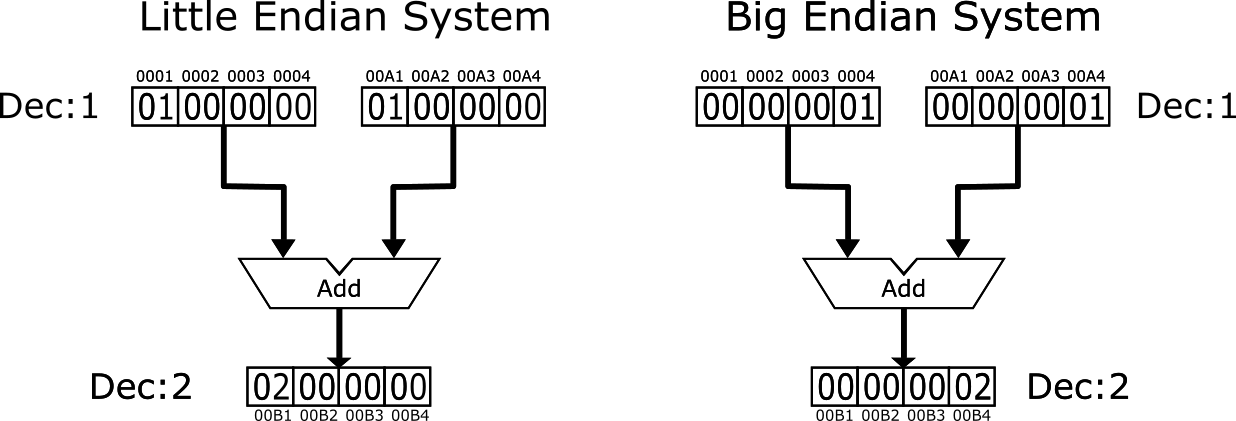
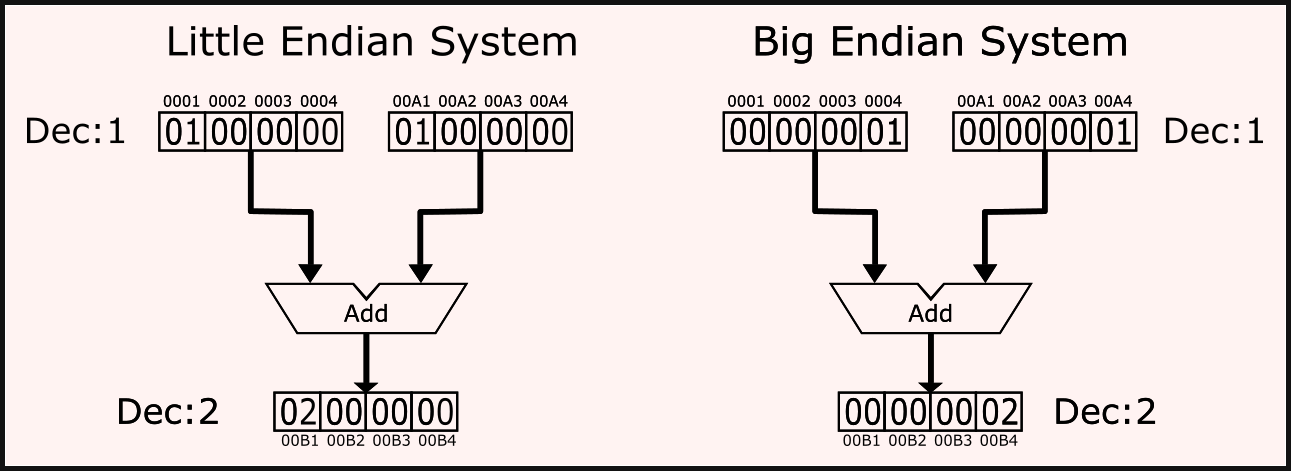
migrate content

Changed region(s): [[0.0, 0.0, 1.0, 1.0]]

diff --git a/content/blog/openmp.md b/content/blog/openmp.md
@@ -1,0 +1,254 @@
+---
+title: "Playing around with OpenMP and C++ - Parallelizing for-loops"
+date: 2019-04-19
+summary: "Optimizing a toy C++ library using OpenMP."
+path: /openmp-parallel-for-cpp/
+---
+
+Yesterday, I came across [an interesting repository](https://github.com/georgeshanti/cpp-transformations) on my GitHub feed. It is a simple and functional header-only C++ library that lets you apply transformations like map, reduce and filter to standard C++ containers.
+
+
+Well, yes I'm aware of the fact that it is possible to perform all three transformations using just STL.
+
+* Map - [`std::transform`](http://www.cplusplus.com/reference/algorithm/transform/)
+* Filter - [`std::copy_if`](http://www.cplusplus.com/reference/algorithm/copy_if/)
+* Reduce - [`std::accumulate`](http://www.cplusplus.com/reference/numeric/accumulate/)
+
+This [stackoverflow answer](https://stackoverflow.com/questions/40901615/how-to-replicate-map-filter-and-reduce-behaviors-in-c-using-stl) explains them in detail.
+
+But that is not why I was interested. Before getting in to that let's take a brief digression.
+
+## The Beauty of Functions
+
+If you're anything like me and have taken the effort to go through the horrors of functional programming, then you must know these functions(map,reduce,filter) from another context.
+
+![Monads](/img/2019-04-19-openmp-parallel-for-cpp/monad-meme.jpg)
+
+They are called higher order functions, which is just a fancy name for functions that take functions as arguments(or returns one). 
+
+One thing that is most celebrated in the land of functional programming is , of course, functions and their inherent lack of side effects. The key observation here is that such functions(pure functions) are independent of thier order of execution as they don't have any side effects. Just keep that in mind as we will be needing it soon.
+
+## The Problem
+
+Coming back to the reason why I got interested in the first place. The library seemed to work fine and it was all generic code but appeared to slow down with large input sizes. The bottleneck was found to be a serial for-loop which is central.
+
+This was [the point](https://github.com/navin-mohan/cpp-transformations/tree/53714dd397b62c25b1ac9961562beb2a59154425) in the commit history where I started.
+
+But as we have seen in the previous section, if the functions are pure then we don't have to apply them in a serial order. Which means we are free to utilize the hardware parallelism while applying those functions.
+
+So it got me wondering if there is a better way. Somehow making that for-loop run parallel would solve the issue. Which is exactly what I did.
+
+This post is all about the path I took to get a speed up of ~2x on my machine.
+
+## OpenMP and Parallel Programming
+After some research, it was clear that [OpenMP](https://www.openmp.org) is what I was looking for. It supports C++ through GCC and can be easily enabled by using the `pragma omp` directives when needed.
+
+The best part is that it can parallelize the for-loop with very minimal changes to the original code. We'll get into the details in a later section.
+
+## Benchmarking code
+First things first, we don't want to manually compile everything whenever something changes. That's why build systems exist so let's use one.
+
+I will be using [CMake](https://cmake.org/) here. If you're new to CMake I recommend reading [this blog post](https://pabloariasal.github.io/2018/02/19/its-time-to-do-cmake-right/).
+
+To perform the actual benchmarking let's just use the `high_resolution_clock` from the standard chrono library. 
+
+```cpp
+/*
+** test_vec is a large std::vector<double> containing 
+** random numbers
+*/
+
+// start time 
+auto start_map = std::chrono::high_resolution_clock::now();
+
+// runs the actual transformation
+transform::map<double, decltype(test_vec)>(test_vec, 
+test_map_func);
+
+// end time
+auto end_map = std::chrono::high_resolution_clock::now();
+
+// the runtime duration
+auto duration = end_map - start_map;
+```
+
+We'll be doing this for all three functions and then prints out the results.
+
+Now that the benchmarking code is out of the way, let's focus on the CMake file.
+
+We need two targets here, a parallel version and a non-parallel version. So that we can see if we're making any progress.
+
+Let's define the non parallel target first.
+
+```cmake
+# add out target
+add_executable(benchmark-no-parallel benchmark.cpp)
+
+# add the source director as an include directory
+target_include_directories(benchmark-no-parallel PRIVATE ${CMAKE_SOURCE_DIR})
+
+# nothing fancy here
+target_compile_options(benchmark-no-parallel PRIVATE -Wall)
+
+# finally run our target to see the results
+add_custom_command(
+    TARGET benchmark-no-parallel POST_BUILD
+    COMMAND ./benchmark-no-parallel
+    WORKING_DIRECTORY ${CMAKE_RUNTIME_OUTPUT_DIRECTORY}
+    COMMENT "Running benchmarks on non parallel version..."
+)
+```
+
+Since we're using OpenMP all we need to change is the compile options a tad bit. But before that we need to check if we actually have OpenMP available on the system. Luckily, CMake can take care of that in a few lines.
+
+```cmake
+# check for OpenMP
+find_package(OpenMP)
+
+# if OpenMP is available
+if(OPENMP_FOUND)
+    add_executable(benchmark-parallel benchmark.cpp)
+    target_include_directories(benchmark-parallel PRIVATE ${CMAKE_SOURCE_DIR})
+    
+    # include the OpenMP compile flags as well
+    target_compile_options(benchmark-parallel PRIVATE ${OpenMP_CXX_FLAGS})
+    
+    # add the OpenMP libraries for linking
+    target_link_libraries(benchmark-parallel PRIVATE ${OpenMP_CXX_LIBRARIES})
+
+    # finally run our target to see the results
+    add_custom_command(
+        TARGET benchmark-parallel POST_BUILD
+        COMMAND ./benchmark-parallel
+        WORKING_DIRECTORY ${CMAKE_RUNTIME_OUTPUT_DIRECTORY}
+        COMMENT "Running benchmarks on parallel version..."
+    )
+
+# if OpenMP is not available
+else()
+    message(WARNING "OpenMP not found. Cannot run benchmarks without it")
+endif()
+```
+
+And that's it, we have our build system ready. Now if we run it we'll be able to see the benchmarks being run for both the targets.
+
+We have not yet added OpenMP directives so the results will be more or less the same.
+
+## Parallelizing the for-loop
+As odd as it may seem, this is the easiest part of all. All we need is a little restructuring of the loop construct and the openmp pragma directive.
+
+
+Starting with the map function.
+
+```cpp
+/*
+** The Map function
+*/
+
+
+// non parallel
+auto new_arr = container();
+for(auto it=arr.begin(); it!=arr.end(); it++){
+    auto new_ele = func(*it);
+    new_arr.insert(new_arr.end(), new_ele);
+}
+
+// parallel
+auto new_arr = container(arr.size());
+size_t len = arr.size();
+auto it = arr.begin();
+auto new_it = new_arr.begin();
+
+// openmp magic
+#pragma omp parallel for schedule(static)
+for(size_t i = 0; i < len; i++){
+    auto new_ele = func(*(it+i));
+    *(new_it+i) = new_ele;
+}
+
+```
+
+You can find more details on the scheduling part [here](https://stackoverflow.com/questions/10850155/whats-the-difference-between-static-and-dynamic-schedule-in-openmp).
+
+Let's do filter function.
+
+```cpp
+/*
+** The Filter function
+*/
+
+// non parallel
+auto new_arr = container();
+for(auto it=arr.begin(); it!=arr.end(); it++){
+    if(func(*it))
+        new_arr.insert(new_arr.end(), *it);
+}
+
+// parallel
+auto new_arr = container();
+size_t len = arr.size();
+auto it = arr.begin();
+#pragma omp parallel for schedule(static)
+for(size_t i = 0; i < len; i++){
+    if(func(*it)){
+        /* the following block is a critical section
+        ** we have to tell openmp that no
+        ** two threads can access it at the same time
+        */
+        #pragma omp critical                
+        {new_arr.insert(new_arr.end(), *(it+i));}
+    }
+}
+```
+
+Lastly, the reduce function. This one's a bit tricky. As we discussed earlier the function application remains side-effect free can be ran in parallel but the actual reduction part will take at least $$log n$$ serial steps for $$n$$ results. Since we're assuming that the function application is the most expensive part of the task, the reduction overhead should be outweighed by the overall savings.
+
+Luckily, OpenMP makes it very easy to use reductions. You can read more about reductions [here](http://pages.tacc.utexas.edu/~eijkhout/pcse/html/omp-reduction.html).
+
+```cpp
+/*
+** The Reduce function
+*/
+
+// non parallel
+for(auto it=arr.begin(); it!=arr.end(); it++){
+    initial += func(*it);
+}
+
+// parallel
+size_t len = arr.size();
+auto it = arr.begin();
+/*
+** Tells openmp to apply a sum reduction on
+** the variable initial
+*/
+#pragma omp parallel for schedule(static) reduction(+:initial)
+for(size_t i = 0; i < len; i++){
+    initial += func(*(it+i));
+}
+```
+
+
+And that is it. We have parallelized the for-loops. Let's run a benchmark test.
+
+### Normal for-loop
+```text
+Results
+Map   : 418ms
+Reduce: 178ms
+Filter: 109ms
+```
+
+### Parallel for-loop
+```text
+Results
+Map   : 216ms
+Reduce: 85ms
+Filter: 55ms
+```
+
+The tests were performed on my dual core machine with a vector of 10 million double values. Our optimization nearly slashed the runtimes to half the original.
+
+The code is available [here](https://github.com/navin-mohan/cpp-transformations/tree/f0399d6dff12b107c7b7ddd1464dd862dd616f24).
+
+Also checkout part 2 of this post [here](https://medium.com/@navinmohan/selective-parallelization-using-c-template-metaprogramming-2fd85ca1d717).

diff --git a/content/blog/immutability.md b/content/blog/immutability.md
@@ -1,0 +1,100 @@
++++
+title = "Immutability — Raw vs Smart Pointers"
+date = 2022-06-07
+summary = "A note on immutability of raw and smart pointers in C++."
+path = "/blog/2022/06/immutability-raw-vs-smart-pointers"
++++
+Let’s start with some (raw) pointer basics.
+
+```cpp
+const std::string* p = nullptr;
+```
+
+Now tell me what is the type of  `p`.  A pointer to `const std::string` . That was easy!
+
+How about this one? What’s the type of  `q` ?
+
+```cpp
+std::string * const q = nullptr; 
+```
+
+In case you’re wondering, both are valid C++ code — here’s the [proof](https://godbolt.org/z/8E4W9oTo5). 
+
+Little bit tricky but if you start from the identifier  `q`  and read outwards, it becomes clear that  `q`  is constant pointer  to  `std::string`.
+
+Still confused?
+
+Here’s a snippet detailing the difference.
+
+```cpp
+const std::string* p = nullptr;
+p = new std::string("Hello"); // valid
+*p = std::string("World"); // invalid
+```
+
+The pointer  `p`  can be modified but not the object pointed to by  `p` .
+
+And for  `q`.
+
+```cpp
+std::string * const q = nullptr; 
+q = new std::string("Hello"); // invalid
+*q = std::string("World"); // valid
+```
+
+The pointer `q` cannot be modified since it is declared `const` but  the object pointed to by  `q`  is mutable.
+
+Further, if you want an immutable pointer to an immutable object you could even do the following.
+
+```cpp
+const std::string * const s = nullptr;
+s = new std::string("Hello"); // invalid
+*s = std::string("World"); // invalid
+```
+
+Great job so far! Now you know how to use immutable pointers, pointers to immutable objects and immutable pointers to immutable objects.
+
+## Enter Smart Pointers
+> Smart pointers exist to save us hundreds of hours of debugging resource leaks which are often the result of a false sense of confidence that one is smart enough to handle raw pointers — that feeling you just had when you completed the previous section.  
+
+Here’s a more [technical definition](https://www.educative.io/edpresso/what-are-smart-pointers) if you’re unfamiliar with smart pointers in C++.
+
+Let’s make  `p`,  `q`, and  `s`  smart.
+
+> Going forward I’ll be using  `std::unique_ptr`  for all the examples. It can be substituted with  `std::shared_ptr`  or  `std::weak_ptr`  to get the equivalent  smart pointers.  
+
+### Mutable Pointer to an Immutable Object
+```cpp
+const std::unique_ptr<std::string> smart_p = nullptr;
+```
+If you guessed the above, then you’re wrong. That is actually an immutable unique pointer to a  mutable object.
+
+Let’s see why.  
+
+The devil is in the details.  `std::unique_ptr`  is a template class  defined in the C++ standard library which takes the pointer type as a template argument. So when  `const`  is prepended to the type name, it doesn’t affect the template argument and instead makes the resulting `std::unique_ptr<T>`  object immutable.
+
+To make the object pointed by `std::unique_ptr` immutable, the template argument needs to contain `const`  specifier. 
+
+The smart pointer equivalent of  `p` looks like the following.
+
+```cpp
+std::unique_ptr<const std::string> smart_p = nullptr;
+```
+
+### Immutable Pointer to an Mutable Object
+We accidentally stumbled upon this in the previous example. Here’s the smart pointer equivalent of  `q`.
+
+```cpp
+const std::unique_ptr<std::string> smart_q = nullptr;
+```
+
+### Immutable Pointer to an Immutable Object
+Similar to the raw pointer case, we can make the `std::unique_ptr`  and its template argument  `const`  to declare an immutable pointer to an immutable object.
+
+```cpp
+const std::unique_ptr<const std::string> smart_s = nullptr;
+```
+
+Hope you learned something new about pointers today! 😄
+
+

diff --git a/content/_index.md b/content/_index.md
@@ -5,3 +5,14 @@ title = "Home"
 section_path = "blog/_index.md"  # Where to find your posts.
 max_posts = 5  # Show 5 posts and a link to blog section on home page.
 +++
+
+# Hello!
+
+I'm Navin, a software engineer who specializes in distributed systems and infrastructure. I've spent most of my career building systems where reliability and performance actually matter: live video at scale, media pipelines, and the kind of failure modes that only show up at scale.
+
+Lately I've been spending a lot of time on AI inference infrastructure and studying how modern LLM serving systems work under the hood.
+
+I'm open to hard infrastructure problems, full-time or contract. If something here looks relevant to what you're building, [get in touch](https://www.linkedin.com/in/navin-mohan/).
+
+# Recent Posts
+---

diff --git a/content/blog/endianness.md b/content/blog/endianness.md
@@ -1,14 +1,16 @@
----
-title: "Dealing with endianness in C++"
-date: 2018-12-31
-path: ealing-with-endianness-in-c/
-summary: "Handling binary data considering endianness."
----
++++
+title = "Dealing with endianness in C++"
+date = 2018-12-31
+path = "ealing-with-endianness-in-c/"
+
+[extra]
+summary = "Handling binary data considering endianness."
++++
 
 If you have ever dealt with binary data, then the chances are that you must have come across the term endianness at least once.
 
 Let's take a deeper dive and see how you can keep your bytes in order.
-<!-- more -->
+
 If you're here for the code, then skip ahead to [methods](#methods-for-handling-endianness-in-c).
 
 ## What is endianness?
